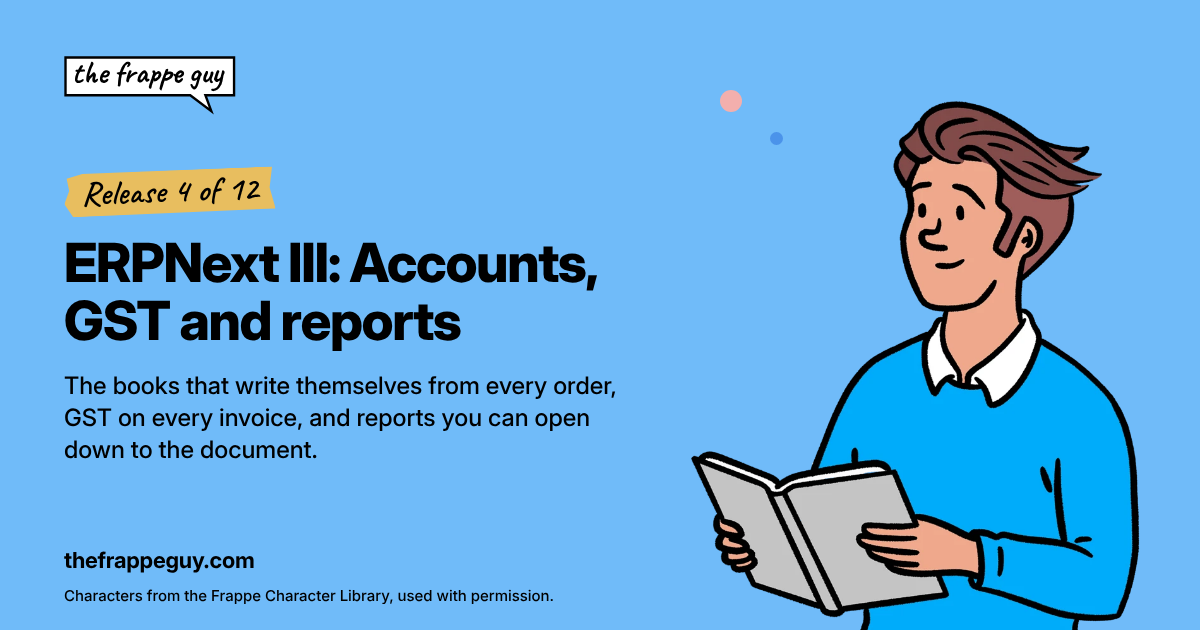
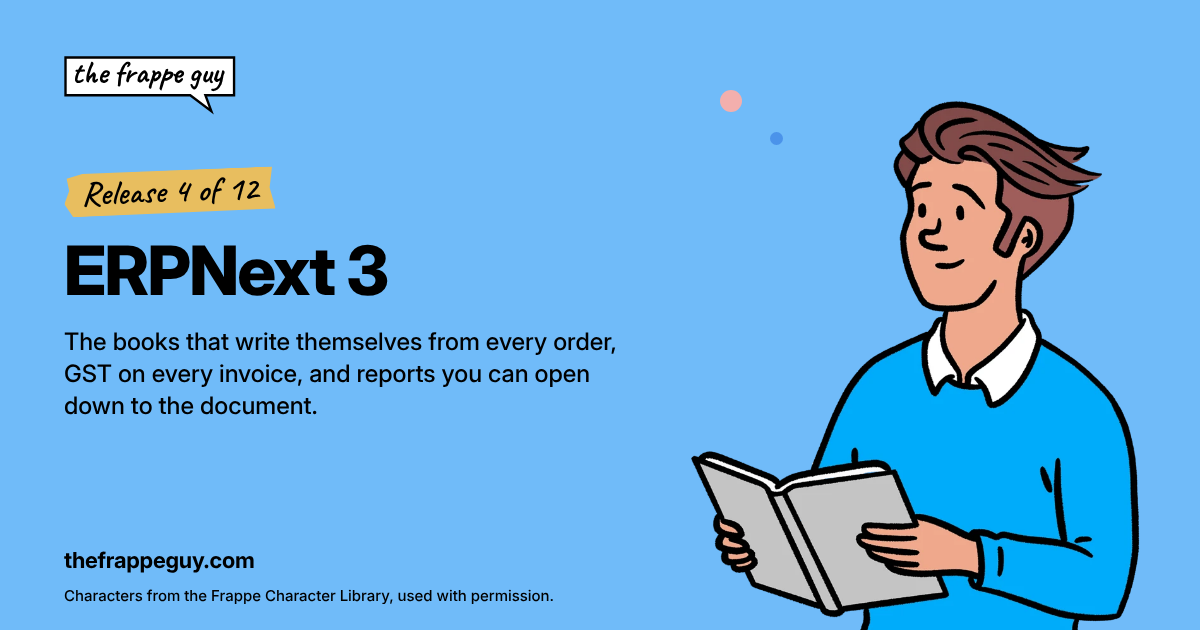
Site 1.9.2: ERPNext 1, 2 and 3; space above the signup block
- The three ERPNext releases are called ERPNext 1, ERPNext 2 and ERPNext 3
  (Mauli). content.py and patch v1_9.short_erpnext_titles for the live
  records; their share cards rebuilt (D-203).
- The signup block gets a top margin, so its rule no longer reads as an
  underline under "Other releases"; release links never break mid-name.

Claude-Session: https://claude.ai/code/session_01XPPmuQ21iKQKXDpMccrT2y

Changed region(s): [[0.0308, 0.3619, 0.5242, 0.7238]]

diff --git a/thefrappeguy/public/css/site.css b/thefrappeguy/public/css/site.css
@@ -102,7 +102,7 @@ h1, h2, h3 { text-wrap: balance; }
 @media (max-width: 1099px) { .topics { grid-template-columns: repeat(2, minmax(0, 1fr)); } .topics li:nth-child(4n+1) .topic { padding-left: var(--space-6); } .topics li:nth-child(2n+1) .topic { padding-left: 0; } }
 @media (max-width: 519px) { .topics { grid-template-columns: minmax(0, 1fr); } .topics li .topic { padding-left: 0 !important; padding-right: 0; } }
 .topic-links { display: flex; flex-wrap: wrap; gap: var(--space-3) var(--space-6); }
-.topic-links a { font-weight: 700; font-size: 18px; line-height: 26px; text-decoration: none; }
+.topic-links a { font-weight: 700; font-size: 18px; line-height: 26px; text-decoration: none; white-space: nowrap; }
 .topic-links a:hover { text-decoration: underline; text-decoration-thickness: 2px; }
 
 /* Explainer cards: a series tile with Deepak at the corner, then words on paper */
@@ -184,7 +184,7 @@ h1, h2, h3 { text-wrap: balance; }
 @media (max-width: 1099px) { .cast { grid-template-columns: repeat(3, minmax(0, 1fr)); } }
 @media (max-width: 599px) { .cast { grid-template-columns: repeat(2, minmax(0, 1fr)); } }
 .next-topic { margin-top: var(--space-6); font-size: 16px; }
-.next-topic a { font-weight: 700; }
+.next-topic a { font-weight: 700; white-space: nowrap; }
 .about-head { align-items: flex-start; }
 .signoff { margin-top: var(--space-4); padding-top: var(--space-6); border-top: 3px solid var(--ink); display: flex; flex-direction: column; gap: var(--space-1); }
 .signoff p { margin: 0; }
@@ -345,7 +345,7 @@ textarea.input { min-height: 160px; resize: vertical; }
 .comic-text .prose { margin-top: var(--space-3); white-space: pre-line; }
 
 /* Newsletter signup (D-186): a quiet block on paper, one per page. */
-.subscribe { display: grid; gap: var(--space-4); padding: var(--space-6) 0; border-top: 3px solid var(--border-strong); max-width: 680px; }
+.subscribe { display: grid; gap: var(--space-4); padding: var(--space-6) 0; margin-top: var(--space-12); border-top: 3px solid var(--border-strong); max-width: 680px; }
 .subscribe__text { display: grid; gap: var(--space-2); }
 .subscribe__text p { margin: 0; }
 .subscribe__form { display: grid; gap: var(--space-3); position: relative; }

diff --git a/thefrappeguy/content.py b/thefrappeguy/content.py
@@ -32,7 +32,7 @@ SERIES = [
 	},
 	{
 		"slug": "erpnext",
-		"title": "ERPNext I: Buying and selling",
+		"title": "ERPNext 1",
 		"scene": "blue",
 		"description": "One order followed from the first quote to the money in the bank, and how the beans get bought in the first place.",
 		"asked_by": "Raju sells the bags. Ishita buys the beans.",
@@ -42,7 +42,7 @@ SERIES = [
 	},
 	{
 		"slug": "erpnext-stock",
-		"title": "ERPNext II: Stock and the roastery",
+		"title": "ERPNext 2",
 		"scene": "blue",
 		"description": "Green beans in, packed bags out: warehouses, batches, roasting as manufacturing and quality checks.",
 		"asked_by": "Ishita wants to know what happens to the beans once they arrive.",
@@ -52,7 +52,7 @@ SERIES = [
 	},
 	{
 		"slug": "erpnext-accounts",
-		"title": "ERPNext III: Accounts, GST and reports",
+		"title": "ERPNext 3",
 		"scene": "blue",
 		"description": "The books that write themselves from every order, GST on every invoice, and reports you can open down to the document.",
 		"asked_by": "Sara wants to see the money.",

diff --git a/thefrappeguy/patches/v1_9/short_erpnext_titles.py b/thefrappeguy/patches/v1_9/short_erpnext_titles.py
@@ -1,0 +1,13 @@
+"""The three ERPNext releases are called ERPNext 1, 2 and 3 (D-203, Mauli, 7 Nov 2026). The long names wrapped
+badly in "Other releases" and on the home grid; each release's description still says what it covers."""
+
+import frappe
+
+TITLES = {"erpnext": "ERPNext 1", "erpnext-stock": "ERPNext 2", "erpnext-accounts": "ERPNext 3"}
+
+
+def execute():
+	for slug, title in TITLES.items():
+		if frappe.db.exists("Explainer Series", slug):
+			frappe.db.set_value("Explainer Series", slug, "title", title, update_modified=False)
+	frappe.db.commit()

diff --git a/thefrappeguy/__init__.py b/thefrappeguy/__init__.py
@@ -1,1 +1,1 @@
-__version__ = "1.9.1"
+__version__ = "1.9.2"
